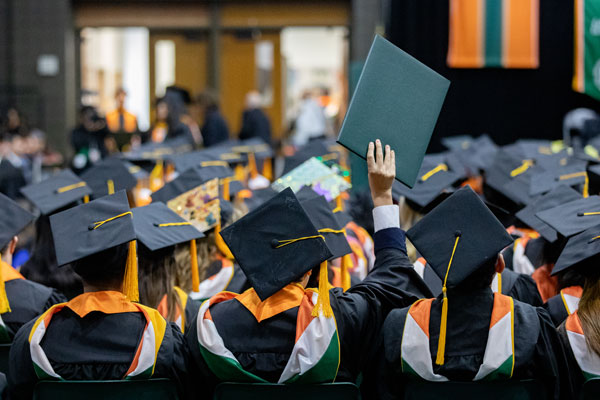
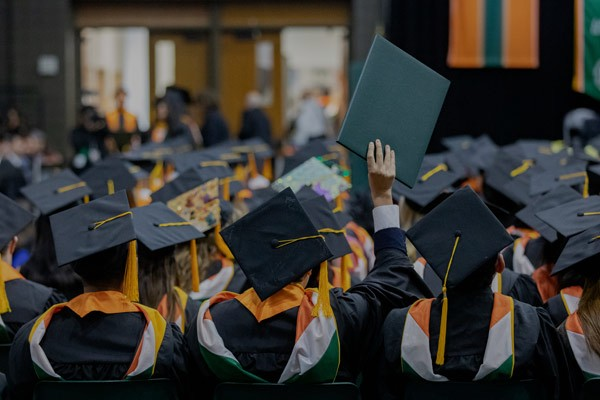
modif2

diff --git a/ressources.html b/ressources.html
@@ -388,7 +388,8 @@
      
 
     <!-- Donate Start -->
-    <div class="donate" data-parallax="scroll" data-image-src="img/ami-cohesion-sociale-scaled.jpg">
+    <div class="donate" data-parallax="scroll" data-image-src="img/main.jpg">
+      <div class="overlay"></div>
       <div class="container">
         <div class="row align-items-center">
           <div class="">

diff --git a/expertise.html b/expertise.html
@@ -296,7 +296,7 @@
     <!-- Service End -->
 
     <!-- Donate Start -->
-    <div class="donate" data-parallax="scroll" data-image-src="img/valid.jpg">
+    <div class="donate" data-parallax="scroll" data-image-src="img/scholarship.jpg">
       <div class="container">
         <div class="row align-items-center">
           <div class="">
